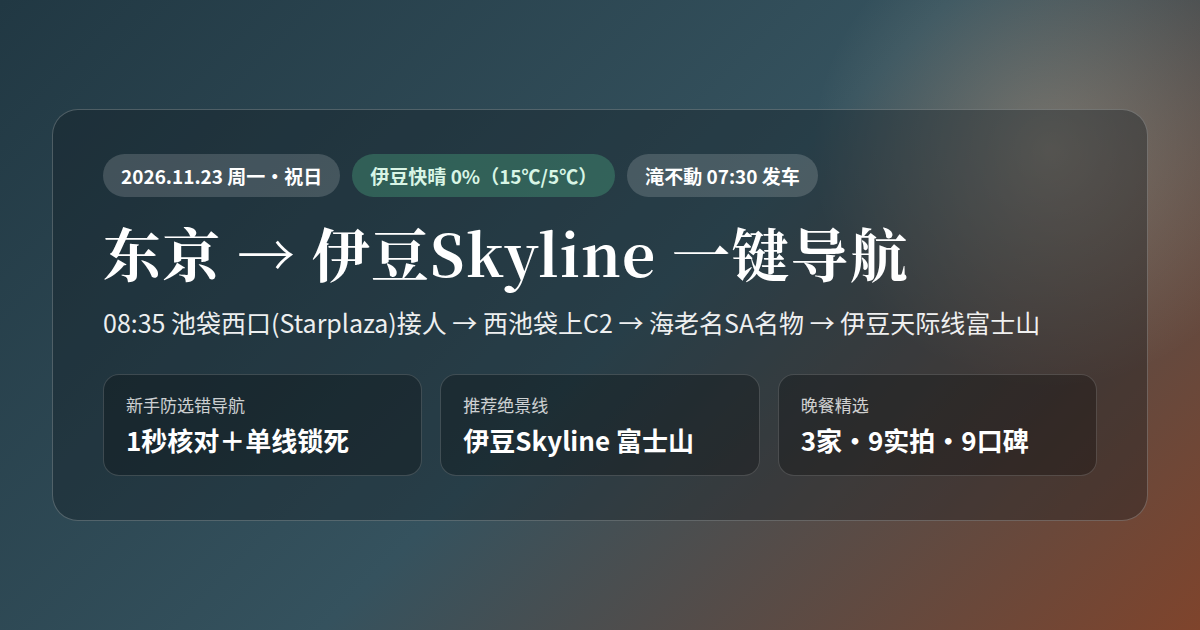
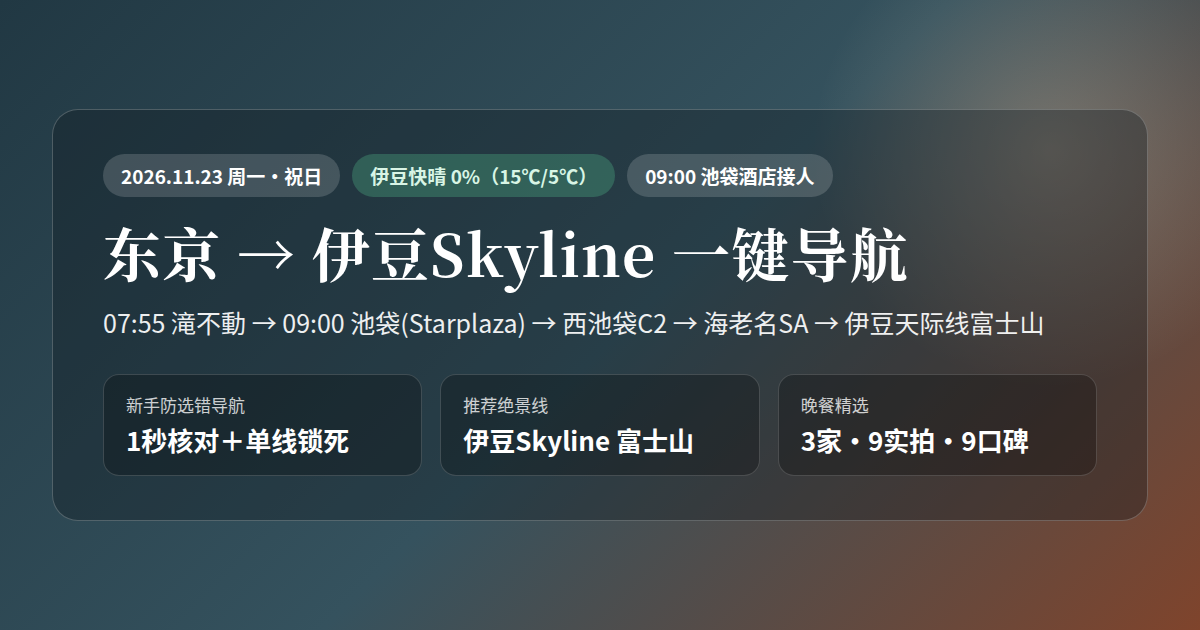
Redesign full 11/23 schedule around 09:00 Hotel Starplaza Ikebukuro pickup

Changed region(s): [[0.0925, 0.4825, 0.8942, 0.5429], [0.5242, 0.2413, 0.7092, 0.3016]]

diff --git a/index.html b/index.html
@@ -6,12 +6,12 @@
 <meta name="robots" content="noindex, nofollow">
 <meta name="theme-color" content="#f5f0e7" media="(prefers-color-scheme: light)">
 <meta name="theme-color" content="#161513" media="(prefers-color-scheme: dark)">
-<title>11/23 伊豆自驾一键导航＆绝景攻略｜07:30出发・池袋接人・伊豆Skyline</title>
-<meta name="description" content="2026年11月23日千叶滝不動07:30出发→Hotel Starplaza Ikebukuro(池袋西口)接人→西池袋上C2→海老名SA名物→伊豆Skyline看富士山→修善寺＆弘法の湯。含新手防选错一键Google Maps导航、3家晚餐9实拍＆真实口碑。">
+<title>11/23 伊豆自驾一键导航＆绝景攻略｜09:00池袋接人・伊豆Skyline</title>
+<meta name="description" content="2026年11月23日07:55千叶滝不動出发→09:00 Hotel Starplaza Ikebukuro(池袋西口)接人→西池袋上C2→海老名SA名物→伊豆Skyline看富士山→修善寺＆弘法の湯。含新手防选错一键Google Maps导航、3家晚餐9实拍＆真实口碑。">
 <meta property="og:type" content="website">
 <meta property="og:url" content="https://kenandxx.github.io/trip-planning/">
-<meta property="og:title" content="11/23 伊豆自驾一键导航｜池袋西口接人・伊豆Skyline富士山＆晚餐3选1">
-<meta property="og:description" content="已锁定 Hotel Starplaza Ikebukuro（池袋西口）08:35 接人！含新手防选错一键导航、西池袋/零隧道双入口、海老名SA名物、伊豆Skyline富士山＆3家晚餐9实拍。">
+<meta property="og:title" content="11/23 伊豆自驾一键导航｜09:00池袋西口接人・伊豆Skyline富士山＆晚餐3选1">
+<meta property="og:description" content="已按 09:00 抵达 Hotel Starplaza Ikebukuro（池袋西口）全新规划！含新手防选错一键导航、西池袋/零隧道双入口、海老名SA名物、伊豆Skyline富士山＆3家晚餐9实拍。">
 <meta property="og:image" content="https://kenandxx.github.io/trip-planning/og-cover.png">
 <style>
 :root{
@@ -250,10 +250,10 @@ footer{text-align:center;font-size:12px;color:var(--soft);padding:16px 0 36px;bo
     <div class="kicker">
       <span>2026.11.23 周一・勤劳感谢之日</span>
       <span class="ok">伊豆快晴 0%（富士山绝佳）</span>
-      <span>滝不動 07:30 最早发车</span>
+      <span>09:00 池袋酒店接人</span>
     </div>
     <h1>东京 → 伊豆Skyline → 伊豆长冈 自驾总览</h1>
-    <p class="sub">千叶滝不動 07:30 发车 → 08:35 池袋西口（Hotel Starplaza）接2位朋友 → 西池袋上C2 → 海老名SA名物 → 伊豆スカイライン富士山 → 修善寺＆弘法の湯</p>
+    <p class="sub">千叶滝不動 07:55 发车（留余量可07:45）→ 09:00 池袋西口（Hotel Starplaza）接2位朋友 → 西池袋上C2 → 海老名SA名物 → 伊豆スカイライン富士山 → 修善寺＆弘法の湯</p>
     <div class="hero-stats">
       <div class="hstat"><div class="l">天气 / 气温</div><div class="v">晴 15°/5°</div></div>
       <div class="hstat"><div class="l">日落 / 庭园闭园</div><div class="v">16:36 天黑</div></div>
@@ -314,10 +314,10 @@ footer{text-align:center;font-size:12px;color:var(--soft);padding:16px 0 36px;bo
     <div class="nav-card">
       <div class="nav-top">
         <span class="nav-step">第 1 段</span>
-        <div class="nav-title" id="leg1-title">07:30 滝不動 → Hotel Starplaza Ikebukuro（池袋西口）</div>
+        <div class="nav-title" id="leg1-title">07:55 滝不動 → 09:00 Hotel Starplaza Ikebukuro（池袋西口）</div>
         <span class="tag ok">约 65 分</span>
       </div>
-      <div class="nav-meta"><b>東京都豊島区池袋2-10-2</b>（池袋西口C6出口步行1分）。酒店仅3个预约车位，提前10分叫朋友下楼到旁侧宽路「劇場通り」3分钟快装；若装车/等人超5分，直接点右侧停337m外<b>「東京芸術劇場駐車場」</b>（100台平面・07:00起・310円/30分・限高2.1m）。</div>
+      <div class="nav-meta"><b>東京都豊島区池袋2-10-2</b>（池袋西口C6出口步行1分，建议 <b>07:45–07:55</b> 滝不動发车稳保 <b>09:00</b> 抵达）。酒店仅3个预约车位，提前10分（<b>08:50</b>）叫朋友下楼到旁侧宽路「劇場通り」3分钟快装；若装车/等人超5分，直接点右侧停337m外<b>「東京芸術劇場駐車場」</b>（100台平面・07:00起・310円/30分・限高2.1m）。</div>
       <div class="route-check"><b>✅ 1秒选线核对：</b>认准蓝线走 <b>「外環道 → C2中央環状線（西池袋出口）」</b>（避开C1最省心）或 <b>「京葉道路 → 7号小松川線 → 5号池袋線」</b>（均在彩虹大桥以北，完全不受11号台场线封路影响！）｜ <span class="no">❌ 绝不选含「湾岸線 / 11号台場線」的线</span>。</div>
       <div class="nav-actions">
         <a id="leg1-go" class="gbtn" target="_blank" rel="noopener" href="https://www.google.com/maps/dir/?api=1&destination=%E3%83%9B%E3%83%86%E3%83%AB%E3%82%B9%E3%82%BF%E3%83%BC%E3%83%97%E3%83%A9%E3%82%B6%E6%B1%A0%E8%A2%8B+%E6%9D%B1%E4%BA%AC%E9%83%BD%E8%B1%8A%E5%B3%B6%E5%8C%BA%E6%B1%A0%E8%A2%8B2-10-2&travelmode=driving&dir_action=navigate">🧭 一键导至 Hotel Starplaza 池袋</a>
@@ -329,7 +329,7 @@ footer{text-align:center;font-size:12px;color:var(--soft);padding:16px 0 36px;bo
     <div class="nav-card highlight">
       <div class="nav-top">
         <span class="nav-step blue">第 2A 段・池袋上高速神技</span>
-        <div class="nav-title">08:45 酒店接2人 → 西池袋入口（首都高C2内回り・ETC专用）</div>
+        <div class="nav-title">09:10 酒店接2人出发 → 西池袋入口（首都高C2内回り・ETC专用）</div>
         <span class="tag ok">约 6–8 分上高速</span>
       </div>
       <div class="nav-meta"><b>实操防坑：</b>切勿把地下隧道入口单独设成导航终点（进山手隧道 8.4km 无信号无法切导航，且坐标易贴到地面大和田桥错过入口）！在酒店停稳时<b>直接点下方主按钮导至下一站 SA</b>，系统会自动无缝引导经<b>要町通り→山手通り南行中央隔离带</b>钻入单向<b>「西池袋入口（C2内回り・ETC专用）」</b>（2026/11/23 已核实无施工封闭・<a href="https://www.shutoko.jp/driving/route/entrance-exit/nishiikebukuro/" target="_blank" rel="noopener" style="color:var(--nav);text-decoration:underline">首都高官方入口图↗</a>）。</div>
@@ -423,11 +423,11 @@ footer{text-align:center;font-size:12px;color:var(--soft);padding:16px 0 36px;bo
 
       <div class="nav-card">
         <div class="nav-top">
-          <span class="nav-step">第 3 段・慎选</span>
-          <div class="nav-title">足柄SA → 沼津港（07:30出发易撞12点峰值，建议跳过）</div>
-          <span class="tag err">11:15 硬止损</span>
+          <span class="nav-step">第 3 段・建议跳过</span>
+          <div class="nav-title">足柄SA → 沼津港（09:00接人到港已11:39正撞最高峰，强烈建议跳过）</div>
+          <span class="tag err">必撞午市峰值</span>
         </div>
-        <div class="nav-meta">11/23叠加沼津秋祭，若足柄出发已过<b>10:40</b>，请直接跳过本段点下方第4段直奔修善寺！</div>
+        <div class="nav-meta">11/23叠加沼津秋祭，09:00酒店出发到足柄SA已约<b>10:44</b>，再绕沼津港会正撞11:30–13:30最猛排队潮（约2h），建议直接点下方第4段直奔修善寺！</div>
         <div class="route-check"><b>✅ 1秒选线核对：</b>认准 <b>「新東名 → 長泉沼津IC → 伊豆縦貫道」</b>（全高速零山路）。</div>
         <div class="nav-actions">
           <a class="gbtn" target="_blank" rel="noopener" href="https://www.google.com/maps/dir/?api=1&destination=%E6%B2%BC%E6%B4%A5%E3%81%BF%E3%81%AA%E3%81%A8%E6%96%B0%E9%AE%AE%E9%A4%A8+%E9%9D%99%E5%B2%A1%E7%9C%8C%E6%B2%BC%E6%B4%A5%E5%B8%82%E5%8D%83%E6%9C%AC%E6%B8%AF%E7%94%BA128-1&travelmode=driving&dir_action=navigate">🧭 一键导至 沼津港</a>
@@ -439,11 +439,11 @@ footer{text-align:center;font-size:12px;color:var(--soft);padding:16px 0 36px;bo
     <!-- LEG 4 (SHARED SHUZENJI) -->
     <div class="nav-card">
       <div class="nav-top">
-        <span class="nav-step">第 4 段</span>
-        <div class="nav-title">宽道下山先逛修善寺 → 「月の庭駐車場」（新手宽敞好停）</div>
+        <span class="nav-step">第 4 段・一次停好</span>
+        <div class="nav-title">宽道下山直停修善寺 → 「月の庭駐車場」（吃午饭＋逛街零挪车）</div>
         <span class="tag ok">50车位・专人引导</span>
       </div>
-      <div class="nav-meta">全天500日元、平地宽道有管理员指挥停放。<b>绝不直接导「修禅寺」本堂</b>（避免钻进窄巷）！</div>
+      <div class="nav-meta">全天500日元、平地宽道有管理员指挥停放。<b>约13:13一次停好</b>，步行在温泉街吃手打荞麦面/山葵丼，吃完<b>14:08</b>直接逛修善寺免去二次找车位！<b>绝不直接导「修禅寺」本堂</b>（避免钻窄巷）。</div>
       <div class="route-check"><b>✅ 1秒选线核对：</b>从龟石峠出发认准往 <b>「大仁 / 伊豆の国 / 県道19号」</b> 宽敞双车道下山（路线B认准<b>「伊豆縦貫道 → 修善寺道路」</b>）｜ <span class="no">❌ 绝不往「伊東 / 宇佐美」方向！</span>下长坡挂 <b>低档/B档</b> 发动机制动控速。</div>
       <div class="nav-tip"><b>现金提醒：</b>经伊豆中央道（200円）或修善寺道路（200円）普通ETC刷不了，副驾备好硬币走<b>「一般」通道</b>！先去 16:00 闭园的修禅寺庭园。</div>
       <div class="nav-actions">
@@ -554,7 +554,7 @@ footer{text-align:center;font-size:12px;color:var(--soft);padding:16px 0 36px;bo
         <ul>
           <li><b>锁死晴天富士山</b>：11/23 伊豆预报<b>全天快晴 0% 降水</b>，而 <b>11/24 午后开始转雨</b>！把富士山绝景提前放到 11/23 路上看，完全不赌次日天气！</li>
           <li><b>反而躲开东名施工</b>：在<b>厚木IC</b>切入「小田原厚木道路 → 箱根新道 → 熱海峠IC」，<b>完美绕开东名下行「大井松田〜足柄」右线封闭施工</b>，且 11/23 小田厚下行无 NEXCO 拥堵预测！</li>
-          <li><b>07:30 出发时间极充裕</b>：放弃沼津港排队 2 小时，换成海老名SA(30分)＋伊豆Skyline(50分)，仍能在 <b>13:50 左右到修善寺</b>（距 16:36 日落还有 2 小时 46 分钟！）。</li>
+          <li><b>09:00 接人依然从容不赶</b>：跳过沼津港排队 2 小时，换成海老名SA(30分)＋伊豆Skyline(50分)，<b>13:13 一次停好修善寺月の庭駐車場</b>吃午饭、<b>14:08 开逛修善寺</b>（距 16:00 庭园闭园还有近 2 小时，距 16:36 日落还有 2 小时 28 分钟！）。</li>
         </ul>
       </div>
 
@@ -814,34 +814,34 @@ footer{text-align:center;font-size:12px;color:var(--soft);padding:16px 0 36px;bo
     </article>
   </section>
 
-  <!-- 4. SCHEDULE SIMULATOR (07:30 EARLIEST PRECONDITION) -->
+  <!-- 4. SCHEDULE SIMULATOR (09:00 HOTEL ARRIVAL ANCHOR) -->
   <section id="sim">
     <div class="sec-head">
-      <div><div class="sec-k">TIMELINE · EARLIEST 07:30</div><h2>新前提（滝不動最早 07:30）行程时间轴模拟</h2></div>
+      <div><div class="sec-k">TIMELINE · 09:00 HOTEL PICKUP</div><h2>按 09:00 抵达池袋酒店｜行程时间轴模拟</h2></div>
       <span id="verdict-pill" class="tag ok">余裕充足 ◎</span>
     </div>
 
     <div class="presets">
       <button class="pbtn on" data-preset="planS" type="button">
         <div class="top"><span class="name">方案 S：伊豆Skyline绝景</span><span class="tag ok">最推荐 ◎</span></div>
-        <div class="desc">07:30 滝不動 → 08:35 池袋西口接人 → 海老名SA名物 → 伊豆天际线富士山 → 13:51 修善寺</div>
+        <div class="desc">07:55 滝不動 → 09:00 池袋西口接人 → 海老名SA名物 → 伊豆天际线富士山 → 13:13 修善寺午饭 → 14:08 开逛</div>
       </button>
       <button class="pbtn" data-preset="planC" type="button">
         <div class="top"><span class="name">方案 C：新东名零山路</span><span class="tag ok">最省心 ◎</span></div>
-        <div class="desc">07:30 滝不動 → 08:35 池袋西口接人 → 足柄SA名物＆富士山 → 新东名直奔伊豆 → 12:42 修善寺</div>
+        <div class="desc">07:55 滝不動 → 09:00 池袋西口接人 → 足柄SA名物＆富士山 → 新东名直奔伊豆 → 13:09 修善寺 → 15:00 入住</div>
       </button>
       <button class="pbtn" data-preset="planA" type="button">
         <div class="top"><span class="name">方案 A：硬塞沼津港对照</span><span class="tag err">偏紧 ✕</span></div>
-        <div class="desc">07:30 滝不動 → 足柄SA → 11:12 沼津港撞祝日祭典峰值排2h → 15:00入住后再去修善寺天已黑</div>
+        <div class="desc">07:55 滝不動 → 09:00 接人 → 足柄SA → 11:39 沼津港撞祝日祭典峰值排2h → 15:00入住后再去修善寺天已黑</div>
       </button>
     </div>
 
     <div class="card">
       <div class="ctrl">
         <div>
-          <div class="ctrl-row"><span>千叶滝不動发车（最早07:30）</span><b id="dep-out" class="mono">07:30</b></div>
-          <input id="dep-slider" type="range" min="450" max="540" step="15" value="450">
-          <div class="ctrl-row" style="font-size:11px;color:var(--soft)"><span>07:30</span><span>池袋酒店约 <b id="sjk-hint">08:35</b> 接人</span><span>09:00</span></div>
+          <div class="ctrl-row"><span>抵达池袋酒店时间（已按09:00设计）</span><b id="dep-out" class="mono">09:00</b></div>
+          <input id="dep-slider" type="range" min="515" max="600" step="5" value="540">
+          <div class="ctrl-row" style="font-size:11px;color:var(--soft)"><span>08:35</span><span>滝不動建议 <b id="sjk-hint">07:55</b> 发车</span><span>10:00</span></div>
         </div>
         <div>
           <select id="route-mode">
@@ -861,7 +861,7 @@ footer{text-align:center;font-size:12px;color:var(--soft);padding:16px 0 36px;bo
       </div>
 
       <div class="kpis">
-        <div class="kpi"><div class="kl">池袋酒店接人</div><div id="k-sjk" class="kv">--:--</div><div class="ks">Starplaza・西池袋上C2</div></div>
+        <div class="kpi"><div class="kl">池袋酒店接人</div><div id="k-sjk" class="kv">--:--</div><div id="k-dep-s" class="ks">07:55 滝不動发车</div></div>
         <div class="kpi"><div class="kl">东名绫濑瓶颈</div><div id="k-tomei" class="kv">--</div><div id="k-tomei-s" class="ks">--</div></div>
         <div class="kpi"><div class="kl">修善寺日落前</div><div id="k-light" class="kv">--</div><div id="k-garden" class="ks">--</div></div>
         <div class="kpi"><div class="kl">累计驾驶 / 路线亮点</div><div id="k-drv" class="kv">--</div><div id="k-num" class="ks">--</div></div>
@@ -905,7 +905,7 @@ footer{text-align:center;font-size:12px;color:var(--soft);padding:16px 0 36px;bo
       <div class="cchart" id="c-chart"></div>
       <div class="caxis" id="c-axis"></div>
       <p style="margin:8px 0 0;font-size:12.5px;color:var(--soft)">
-        ✅ <b>改池袋后的双重大利好</b>：首都高官方评定 11/23 全天<b>「拥堵较少」</b>；07:30 出发 08:35 抵池袋，从仅 5 分钟外的<b>西池袋入口</b>直入 C2→东名，约 <b>09:30 就过绫濑</b>（仅微堵约 +11分钟，比原新宿方案更早更顺！）；且 <b>小田原厚木道路下行</b> 无拥堵预测，30km 返程大堵车全在对向上行！
+        ✅ <b>09:00 接人依然很稳</b>：首都高官方评定 11/23 全天<b>「拥堵较少」</b>；07:55 发车 <b>09:00 抵池袋</b>，全员多睡 25 分钟！09:10 装完车经 6 分钟外的<b>西池袋入口</b>直入 C2→东名，约 <b>09:55 过绫濑</b>（仅微堵约 +13 分钟，仅比早半小时多 2 分钟！）；且 <b>小田原厚木道路下行</b> 无拥堵预测，30km 返程大堵车全在对向上行！
       </p>
     </div>
 
@@ -949,19 +949,19 @@ const RISKS = [
   {lvl:'err',tag:'高风险',cat:'首都高ETC＆封路',t:'西池袋/池尻均为紫色ETC专用入口（现金不可进）＋ 11号彩虹大桥 04–14时封路',p:'发车前确认ETC卡插紧；滝不動→池袋全程在彩虹大桥以北（外环道→C2或京叶道→7号线→5号线），绝不走湾岸线！'},
   {lvl:'err',tag:'高风险',cat:'现金收费站',t:'伊豆Skyline(500円) / 伊豆中央道(200円) / 修善寺道路(200円) 普通ETC不可用！',p:'中控台备足 2,500–3,000 日元（500円/100円硬币＋千円纸币），副驾专职递钱走「一般/现金」通道（若提前注册过ETCX可用）。'},
   {lvl:'warn',tag:'中风险',cat:'山路下坡＆让车',t:'伊豆Skyline 龟石峠下山（県道19号大仁侧）长下坡＋本地快车',p:'大仁侧为宽敞双车道，下坡挂低档/B档用发动机制动控速 40–50km/h，勿长踩脚刹；遇后方快车在避让带靠边让行。大雾随时在厚木IC改走路线B（零山路）！'},
-  {lvl:'warn',tag:'中风险',cat:'池袋装车＆晚餐',t:'Hotel Starplaza 仅3个预约车位、装车超5分易违停 ＋ 祝日晚上无预约没位',p:'到店前10分钟叫朋友下楼到「劇場通り」大路边3分钟快装；若等超5分钟直接拐进337m外「東京芸術劇場駐車場」（100台平面・310円/30分）；晚餐ひょうたん寿司/あまご茶屋今晚电话订位，さわやか明天手机取号！'},
-  {lvl:'warn',tag:'中风险',cat:'修善寺窄巷＆日落',t:'直接导修禅寺易钻窄巷 ＋ 16:36天黑・11/24午后转雨',p:'第4段已锁定平地宽敞＋管理员引导的「月の庭駐車場」；11/23快晴走Skyline先锁死富士山绝景，再赶16:00前逛完修禅寺庭园！'}
+  {lvl:'warn',tag:'中风险',cat:'池袋装车＆晚餐',t:'Hotel Starplaza 仅3个预约车位、装车超5分易违停 ＋ 祝日晚上无预约没位',p:'08:50 提前10分钟叫朋友下楼到「劇場通り」大路边3分钟快装；若等超5分钟直接拐进337m外「東京芸術劇場駐車場」（100台平面・310円/30分）；晚餐ひょうたん寿司/あまご茶屋今晚电话订位，さわやか明天手机取号！'},
+  {lvl:'warn',tag:'中风险',cat:'修善寺窄巷＆日落',t:'直接导修禅寺易钻窄巷 ＋ 16:36天黑・11/24午后转雨',p:'第4段已锁定平地宽敞＋管理员引导的「月の庭駐車場」（13:13 一次停好吃午饭＋逛街零挪车）；11/23快晴走Skyline先锁死富士山绝景，再赶16:00前逛完修禅寺庭园！'}
 ];
 
 const TODOS = [
-  {id:'t1',who:'全员',tx:'确认集合点＆路线：08:35 Hotel Starplaza Ikebukuro（池袋2-10-2・C6口）→ 选【方案S 海老名SA＋伊豆Skyline富士山】还是【方案C 足柄SA＋零山路】'},
+  {id:'t1',who:'全员',tx:'确认集合点＆路线：09:00 Hotel Starplaza Ikebukuro（池袋2-10-2・C6口）→ 选【方案S 海老名SA＋伊豆Skyline富士山】还是【方案C 足柄SA＋零山路】'},
   {id:'t2',who:'全员',tx:'拍板晚餐 3 选 1：① ひょうたん寿司(055-948-0733今晚订位) / ② さわやか函南店(明天手机取号) / ③ あまご茶屋(0558-73-2388)'},
-  {id:'t3',who:'友人',tx:'把2位朋友的雪杖长度＆箱子尺寸发群里；明早 08:25 提前退房下楼到酒店外「劇場通り」大路边等车！'},
+  {id:'t3',who:'友人',tx:'把2位朋友的雪杖长度＆箱子尺寸发群里；明早 08:50 提前退房下楼到酒店外「劇場通り」大路边等车！'},
   {id:'t4',who:'司机',tx:'备好 2,500–3,000 日元现金（含500円/100円硬币）：用于伊豆Skyline 500円＋伊豆中央道200円＋修善寺道路200円（及可选ターンパイク900円）'},
   {id:'t5',who:'司机',tx:'确认 ETC 卡插紧（西池袋/池尻入口均为紫色ETC专用）、装手机支架、加满油、清空后备箱；副驾建议免费装「Yahoo!カーナビ」辅助看首都高3D分叉'},
-  {id:'t6',who:'明早',tx:'07:30 滝不動发车前扫一眼第1段蓝线：走外环→C2或京叶道→7号线→5号线（绝不走湾岸线/彩虹大桥）'},
-  {id:'t7',who:'配合',tx:'进西池袋上C2山手隧道后牢记大橋JCT口诀：过富ヶ谷靠右进螺旋 → 死守左侧「🔵蓝色车道」去东名！（极度怕隧道可切池尻入口）'},
-  {id:'t8',who:'休整',tx:'在 EXPASA海老名（下り）买哈密瓜面包＆炸竹荚鱼垫肚子（记住スカイポート亀石餐厅已结业，仅留洗手间）'}
+  {id:'t6',who:'明早',tx:'07:45–07:55 滝不動发车（稳保 09:00 到酒店），出发前扫一眼第1段蓝线：走外环→C2或京叶道→7号线→5号线（绝不走湾岸线/彩虹大桥）'},
+  {id:'t7',who:'配合',tx:'09:10 酒店出发直接点第2A段主按钮直导海老名SA！进西池袋山手隧道牢记大橋JCT口诀：过富ヶ谷靠右进螺旋 → 死守左侧「🔵蓝色车道」去东名！（怕隧道可切地面导池尻）'},
+  {id:'t8',who:'休整',tx:'10:18 在 EXPASA海老名（下り）买哈密瓜面包＆炸竹荚鱼垫肚子（记住スカイポート亀石餐厅已结业，仅留洗手间）'}
 ];
 
 const fmt = m => `${String(Math.floor(m/60)).padStart(2,'0')}:${String(Math.round(m%60)).padStart(2,'0')}`;
@@ -983,11 +983,11 @@ function updateHotelNav(){
   if(val){
     go.href = `https://www.google.com/maps/dir/?api=1&destination=${originEnc}&travelmode=driving&dir_action=navigate`;
     go.textContent = `🧭 一键导至 ${val}`;
-    title.textContent = `07:30 滝不動 → ${val}`;
+    title.textContent = `07:55 滝不動 → 09:00 ${val}`;
   } else {
     go.href = `https://www.google.com/maps/dir/?api=1&destination=${DEFAULT_HOTEL_ENC}&travelmode=driving&dir_action=navigate`;
     go.textContent = '🧭 一键导至 Hotel Starplaza 池袋';
-    title.textContent = '07:30 滝不動 → Hotel Starplaza Ikebukuro（池袋西口）';
+    title.textContent = '07:55 滝不動 → 09:00 Hotel Starplaza Ikebukuro（池袋西口）';
   }
   const sa = SA_DEST[curNavMode];
   const leg2aGo = document.getElementById('leg2a-go');
@@ -1023,21 +1023,21 @@ function ayaseDelay(passMin, mode){
 }
 
 function runSim(){
-  const dep = +document.getElementById('dep-slider').value;
+  const sjk = +document.getElementById('dep-slider').value; // Hotel arrival time (default 540 = 09:00)
+  const dep = sjk - 65; // Back-calculated Takifudo departure (default 475 = 07:55)
   const rmode = document.getElementById('route-mode').value;
   const tmode = document.getElementById('traffic-mode').value;
   const szFirst = document.getElementById('opt-first').checked;
-  document.getElementById('dep-out').textContent = fmt(dep);
+  document.getElementById('dep-out').textContent = fmt(sjk);
+  document.getElementById('sjk-hint').textContent = fmt(dep);
 
   const list = [];
   let t = dep, drv = 0, km = 0;
 
-  list.push({s:t,d:65,tp:'d',lb:'滝不動→池袋',ti:'第1段：滝不動駅 → Hotel Starplaza Ikebukuro（池袋西口，约40km）',nt:'走外环道→C2（西池袋出口）或京叶道→7号线→5号线，全程在彩虹大桥以北，完全不受11号台场线封路影响！'});
+  list.push({s:t,d:65,tp:'d',lb:'滝不動→池袋',ti:'第1段：滝不動駅 → Hotel Starplaza Ikebukuro（池袋西口，约40km）',nt:'建议留5–10分余量发车；走外环道→C2（西池袋出口）或京叶道→7号线→5号线，全程在彩虹大桥以北，完全不受11号台场线封路影响！'});
   t+=65; drv+=65; km+=40;
-  const sjk = t;
-  document.getElementById('sjk-hint').textContent = fmt(sjk);
 
-  list.push({s:t,d:17,tp:'r',lb:'池袋接人→西池袋',ti:'第2A段：Hotel Starplaza 接2人＆装车 → 西池袋入口（C2内回り・ETC专用）',nt:'提前10分叫朋友到劇場通り快装（超5分停337m外东京艺术剧场）；单向西池袋入口距酒店仅6分钟！'});
+  list.push({s:t,d:17,tp:'r',lb:'池袋接人→西池袋',ti:'第2A段：Hotel Starplaza 接2人＆装车（10分）→ 西池袋入口（C2内回り・ETC专用）',nt:'提前10分叫朋友到劇場通り快装（超5分停337m外东京艺术剧场）；酒店停稳后直接点第2A段主按钮导下一站SA，约6分钟无缝进西池袋入口！'});
   t+=17; drv+=7; km+=2;
 
   const ayaseEst = t+38;
@@ -1046,23 +1046,31 @@ function runSim(){
 
   if(rmode === 'skyline'){
     const toEbina = 48 + delay;
-    list.push({s:t,d:toEbina,tp:'d',lb:delay>=10?`C2→东名(+${delay}分)`:'C2→海老名',ti:'第2B段：西池袋C2山手隧道 → 大橋JCT(🔵蓝道) → 3号涩谷线 → EXPASA海老名（下り，约48km）',nt:`约${fmt(ayaseEst)}过绫濑瓶颈（+${delay}分）。比原新宿绕地面快15分钟！海老名SA在厚木IC前一站零绕路。`});
+    list.push({s:t,d:toEbina,tp:'d',lb:delay>=10?`C2→东名(+${delay}分)`:'C2→海老名',ti:'第2B段：西池袋C2山手隧道 → 大橋JCT(🔵蓝道) → 3号涩谷线 → EXPASA海老名（下り，约48km）',nt:`约${fmt(ayaseEst)}过绫濑瓶颈（+${delay}分）。海老名SA位于厚木IC前一站，零绕路！`});
     t+=toEbina; drv+=toEbina; km+=48;
 
-    list.push({s:t,d:30,tp:'r',lb:'海老名SA名物',ti:'EXPASA海老名（下り）休整＋名物补给',nt:'必吃：ぽるとがる 哈密瓜面包 ＋ 小田原吉匠 炸竹荚鱼 ＋ えびえび焼き（528小车位）。'});
+    list.push({s:t,d:30,tp:'r',lb:'海老名SA名物',ti:'EXPASA海老名（下り）上午茶休整＋名物补给',nt:'必吃：ぽるとがる 哈密瓜面包 ＋ 小田原吉匠 炸竹荚鱼 ＋ えびえび焼き（528小车位）。'});
     t+=30;
 
     list.push({s:t,d:65,tp:'d',lb:'小田厚→熱海峠',ti:'第3A段：厚木IC → 小田原厚木道路 → 箱根新道（免费上坡）→ 道の駅箱根峠 → 熱海峠IC（约53km）',nt:'完美绕开东名大井松田右线施工！11/23小田厚下行无拥堵预测；也可升级走ターンパイク大观山(900円)。'});
     t+=65; drv+=65; km+=53;
 
-    list.push({s:t,d:50,tp:'s',lb:'伊豆Skyline富士山',ti:'第3B/3C段：伊豆スカイライン（熱海峠→滝知山→亀石峠 16.5km，含25分富士山拍照）',nt:'现金/ETCX 500日元！停「滝知山展望台（45车位）」＆「池の向展望台」拍晴天富士山＋相模/骏河双海！'});
+    list.push({s:t,d:50,tp:'s',lb:'伊豆Skyline富士山',ti:'第3B/3C段：伊豆スカイライン（熱海峠→滝知山→亀石峠 16.5km，含25分富士山拍照）',nt:'现金/ETCX 500日元！停「滝知山展望台（45车位）」＆「池の向展望台」拍正午晴天富士山＋相模/骏河双海！'});
     t+=50; drv+=25; km+=17;
 
-    list.push({s:t,d:30,tp:'d',lb:'亀石峠下山',ti:'亀石峠IC 宽道下山 → 県道19号（大仁侧）→ 伊豆长冈/修善寺（约18km）',nt:'双向双车道好开！下长坡挂低档/B档发动机制动控速 40–50km/h。'});
-    t+=30; drv+=30; km+=18;
+    if(szFirst){
+      list.push({s:t,d:30,tp:'d',lb:'亀石峠→月の庭',ti:'第4段：亀石峠IC 宽道下山（県道19号大仁侧）→ 直停修善寺「月の庭駐車場」（约19km）',nt:'双向双车道好开（下坡挂低档/B档控速），50车位500日元/全天一次停好，吃午饭＋逛街免挪车！修善寺道路现金200円。'});
+      t+=30; drv+=30; km+=19;
 
-    list.push({s:t,d:55,tp:'f',lb:'伊豆午饭',ti:'修善寺 / 伊豆长冈周边轻松午饭',nt:'避开沼津港大队，轻松吃完准备逛修善寺。'});
-    t+=55;
+      list.push({s:t,d:55,tp:'f',lb:'修善寺午饭',ti:'修善寺温泉街轻松午饭（手打荞麦面 / 山葵丼等）',nt:'停好车步行即吃，避开沼津港大队，省下二次找车位时间！'});
+      t+=55;
+    } else {
+      list.push({s:t,d:28,tp:'d',lb:'亀石峠下山',ti:'亀石峠IC 宽道下山 → 県道19号（大仁侧）→ 伊豆长冈区域（约17km）',nt:'双向双车道好开！下长坡挂低档/B档发动机制动控速 40–50km/h。'});
+      t+=28; drv+=28; km+=17;
+
+      list.push({s:t,d:55,tp:'f',lb:'伊豆午饭',ti:'伊豆长冈周边轻松午饭',nt:'避开沼津港大队，准备等15:00入住。'});
+      t+=55;
+    }
     highlightTxt = '锁死晴天富士山◎';
   } else if(rmode === 'direct'){
     const hw = 74 + delay;
@@ -1082,35 +1090,36 @@ function runSim(){
     const hw = 74 + delay;
     list.push({s:t,d:hw,tp:'d',lb:delay>=10?`C2→东名(+${delay}分)`:'C2→东名下行',ti:'第2B段：西池袋C2 → 东名下行 → EXPASA足柄（下り，约93km）',nt:`约${fmt(ayaseEst)}过绫濑（+${delay}分），大井松田右线封闭请靠左。`});
     t+=hw; drv+=hw; km+=93;
-    list.push({s:t,d:20,tp:'r',lb:'足柄SA',ti:'EXPASA足柄（下り）短暂休整',nt:'若出发已过10:40建议直接跳过沼津港！'});
+    list.push({s:t,d:20,tp:'r',lb:'足柄SA',ti:'EXPASA足柄（下り）短暂休整',nt:'09:00接人到足柄SA已近10:45，强烈建议直接跳过沼津港！'});
     t+=20;
-    list.push({s:t,d:35,tp:'d',lb:'往沼津港',ti:'第3段：足柄SA → 沼津港（约34km）',nt:'11/23叠加沼津秋祭。'});
+    list.push({s:t,d:35,tp:'d',lb:'往沼津港',ti:'第3段：足柄SA → 沼津港（约34km）',nt:'11/23叠加沼津秋祭，11:30–13:30为最猛饭点峰值。'});
     t+=35; drv+=35; km+=34;
     let stay = t >= 660 ? 115 : 85;
     if(t >= 660){ numBad = true; highlightTxt = `${fmt(t)}到沼津(撞峰值2h)`; }
     else { highlightTxt = `${fmt(t)}到沼津(轻排队)`; }
-    list.push({s:t,d:stay,tp:'f',lb:'沼津港午饭',ti:'沼津港海鲜午饭（含停车＋等位）',nt:numBad?'❌ 07:30出发到沼津港已撞11点后祝日＋秋祭峰值，强烈建议改走方案S！':'需抓紧时间。'});
+    list.push({s:t,d:stay,tp:'f',lb:'沼津港午饭',ti:'沼津港海鲜午饭（含停车＋等位）',nt:numBad?'❌ 09:00接人到沼津港已正撞午市祝日＋秋祭峰值，强烈建议改走方案S！':'需抓紧时间。'});
     t+=stay;
     list.push({s:t,d:30,tp:'d',lb:'往伊豆',ti:'沼津港 → 伊豆长冈区域（约13km）',nt:'伊豆中央道现金200日元。'});
     t+=30; drv+=30; km+=13;
   }
 
   let szStart = 0;
-  if(szFirst && t < 900){
-    const driveSz = rmode === 'skyline' ? 10 : 15;
-    list.push({s:t,d:driveSz,tp:'d',lb:'往修善寺',ti:'第4段：前往修善寺「月の庭駐車場」（平地宽敞・专人引导）',nt:'修善寺道路现金200日元；50车位500日元/天，绝不钻窄巷！'});
-    t+=driveSz; drv+=driveSz; km+=9;
+  if(szFirst && t < 915){
+    if(rmode !== 'skyline'){
+      list.push({s:t,d:15,tp:'d',lb:'往修善寺',ti:'第4段：前往修善寺「月の庭駐車場」（平地宽敞・专人引导）',nt:'修善寺道路现金200日元；50车位500日元/天，绝不钻窄巷！'});
+      t+=15; drv+=15; km+=9;
+    }
     szStart = t;
-    list.push({s:t,d:80,tp:'s',lb:'修善寺散步',ti:'修善寺温泉街（独钴之汤・修禅寺庭园・竹林小径）',nt:szStart<=915?'✅ 充裕赶上16:00闭园的修禅寺庭园＆明亮光线！':'⚠ 优先进16:00闭园的修禅寺庭园。'});
+    list.push({s:t,d:80,tp:'s',lb:'修善寺散步',ti:'修善寺温泉街（修禅寺庭园・独钴之汤・竹林小径）',nt:szStart<=915?'✅ 充裕赶上16:00闭园的修禅寺庭园＆明亮光线！':'⚠ 优先进16:00闭园的修禅寺庭园。'});
     t+=80;
-    list.push({s:t,d:15,tp:'d',lb:'回旅馆',ti:'第5段：修善寺 → 弘法の湯 长冈店（约9km）',nt:'停好车即完成主要驾驶任务！（若选あまご茶屋可在17:00修善寺吃完再回）'});
+    list.push({s:t,d:15,tp:'d',lb:'回旅馆',ti:'第5段：修善寺 → 弘法の湯 长冈店（约9km）',nt:'停好车即完成全天主要驾驶！（若选あまご茶屋可在16:30–17:00修善寺吃完早晚餐再回）'});
     t+=15; drv+=15; km+=9;
     const ci = Math.max(t, 900);
-    list.push({s:ci,d:70,tp:'s',lb:'入住泡汤',ti:'弘法の湯 长冈店 入住・泡温泉＆岩盘浴',nt:'免费室外停车34台（1房限1车，15:00起入住）。'});
-    t = ci + 70;
+    list.push({s:ci,d:80,tp:'s',lb:'入住泡汤',ti:'弘法の湯 长冈店 入住・泡温泉＆岩盘浴',nt:ci>915?'完美错开15:00入住排队高峰！免费室外停车34台（1房限1车）。':'免费室外停车34台（1房限1车，15:00起入住）。'});
+    t = ci + 80;
   } else {
     const ci = Math.max(t, 900);
-    if(t < 900) list.push({s:t,d:900-t,tp:'r',lb:'等入住',ti:'旅馆周边小憩（等待15:00入住）',nt:'勾选「先逛修善寺」可赚回1小时白天观光。'});
+    if(t < 900) list.push({s:t,d:900-t,tp:'r',lb:'等入住',ti:'旅馆周边小憩（等待15:00入住）',nt:'勾选「先逛修善寺」可赚回1.5小时白天观光。'});
     list.push({s:ci,d:45,tp:'s',lb:'办入住',ti:'第5段：弘法の湯 长冈店 办理入住＆放行李',nt:'祝日15点前后车位略紧。'});
     t = ci + 45;
     list.push({s:t,d:15,tp:'d',lb:'往修善寺',ti:'第4段：旅馆 → 修善寺「月の庭駐車場」',nt:'修善寺道路现金200日元。'});
@@ -1122,11 +1131,12 @@ function runSim(){
     t+=15; drv+=15; km+=9;
   }
 
-  const din = Math.max(t, 1065);
-  list.push({s:din,d:80,tp:'f',lb:'晚餐3选1',ti:'第6段：晚餐 3 选 1（ひょうたん寿司 / さわやか函南店 / あまご茶屋）',nt:'寿司店步行9分(LO 19:30)；さわやか车程12分(LO 21:00，手机提前取号)；あまご茶屋修善寺17:00早晚餐(LO 18:30)。'});
+  const din = Math.max(t, 1050);
+  list.push({s:din,d:80,tp:'f',lb:'晚餐3选1',ti:'第6段：晚餐 3 选 1（ひょうたん寿司 / さわやか函南店 / あまご茶屋）',nt:'寿司店步行9分(LO 19:30)；さわやか车程12分(LO 21:00，泡汤时手机取号)；あまご茶屋修善寺17:00早晚餐(LO 18:30)。'});
 
   const light = Math.max(0, 996 - szStart);
   document.getElementById('k-sjk').textContent = fmt(sjk);
+  document.getElementById('k-dep-s').textContent = `${fmt(dep)} 滝不動发车・西池袋上C2`;
   const kt = document.getElementById('k-tomei');
   kt.textContent = delay===0?'0 拥堵':`+${delay} 分`;
   kt.style.color = delay===0?'var(--ok)':(delay<=18?'var(--warn)':'var(--err)');
@@ -1145,9 +1155,9 @@ function runSim(){
   else if(light>=25 && !numBad){vp.className='tag warn';vp.textContent='略偏紧 △';}
   else{vp.className='tag err';vp.textContent='偏紧・建议改方案S ✕';}
 
-  const minS=420, span=810, pct=m=>Math.max(0,Math.min(100,(m-minS)/span*100));
+  const minS=420, span=840, pct=m=>Math.max(0,Math.min(100,(m-minS)/span*100));
   const ga=document.getElementById('g-axis'); ga.innerHTML='';
-  [420,540,660,780,900,1020,1140].forEach(m=>{
+  [480,600,720,840,960,1080,1200].forEach(m=>{
     const s=document.createElement('span');
     s.style.cssText=`position:absolute;left:${pct(m)}%;transform:translateX(-50%)`;
     s.textContent=fmt(m); ga.appendChild(s);
@@ -1175,13 +1185,13 @@ function drawChart(){
   const c=document.getElementById('c-chart'), a=document.getElementById('c-axis');
   CONGESTION.forEach((x,i)=>{
     const col=document.createElement('div');
-    col.className='ccol'+(i===2?' best':'');
+    col.className='ccol'+((i===2||i===3)?' best':'');
     const dh=Math.max(x.d?12:3,Math.round(x.d/30*100));
     const uh=Math.max(x.u?12:3,Math.round(x.u/30*100));
     col.innerHTML=`<div class="cbar" style="height:${dh}%;background:${x.d?'#2b6cb0':'var(--line)'}">${x.d>=6?x.d:''}</div><div class="cbar" style="height:${uh}%;background:${x.u?'#b91c1c':'var(--line)'}">${x.u>=10?x.u:''}</div>`;
     c.appendChild(col);
     const l=document.createElement('div'); l.textContent=x.h.replace('时','');
-    if(i===2){l.style.color='var(--ok)';l.style.fontWeight='700';}
+    if(i===2||i===3){l.style.color='var(--ok)';l.style.fontWeight='700';}
     a.appendChild(l);
   });
 }
@@ -1195,7 +1205,7 @@ function drawRisks(){
   });
 }
 
-const KEY='izu_wx_chk_v4';
+const KEY='izu_wx_chk_v5';
 function drawTodos(){
   let st={}; try{st=JSON.parse(localStorage.getItem(KEY)||'{}');}catch{}
   const w=document.getElementById('chk-wrap'); w.innerHTML='';
@@ -1218,7 +1228,7 @@ document.querySelectorAll('.pbtn').forEach(b=>b.addEventListener('click',()=>{
   document.querySelectorAll('.pbtn').forEach(x=>x.classList.remove('on'));
   b.classList.add('on');
   const p=b.dataset.preset;
-  document.getElementById('dep-slider').value = 450;
+  document.getElementById('dep-slider').value = 540;
   if(p==='planS'){document.getElementById('route-mode').value='skyline';document.getElementById('opt-first').checked=true;}
   if(p==='planC'){document.getElementById('route-mode').value='direct';document.getElementById('opt-first').checked=true;}
   if(p==='planA'){document.getElementById('route-mode').value='numazu';document.getElementById('opt-first').checked=false;}
@@ -1239,7 +1249,7 @@ document.getElementById('lb-close').addEventListener('click',()=>lb.classList.re
 lb.addEventListener('click',e=>{if(e.target===lb) lb.classList.remove('show');});
 
 document.getElementById('copy-wx-btn').addEventListener('click',()=>{
-  const txt = `【11/23 周一・伊豆自驾最新攻略＆一键导航（已锁定池袋酒店！）】\n明天伊豆全天大晴天（15℃/5℃，日落16:36），24日午后可能转雨，所以我们明天直接冲富士山绝景线！页面含防选错一键Google Maps导航＋3家晚餐9张实拍👇\nhttps://kenandxx.github.io/trip-planning/\n\n🚗 最新时间安排（滝不動最早 07:30 出发）：\n・08:35 抵达 Hotel Starplaza Ikebukuro（池袋2-10-2・西口C6）接2位朋友！请 08:25 提前下楼到酒店旁「劇場通り」大路边快装（超5分拐去337m外东京艺术剧场地下停车）\n・08:52 从仅5分钟外的【西池袋入口】直上C2山手隧道→东名（比原新宿快15分钟！）\n・09:51 EXPASA海老名(下り)吃名物休整30分（哈密瓜面包・炸竹荚鱼・えびえび焼き）\n・11:26 走【伊豆スカイライン】看富士山＋相模/骏河双海！（完美避开东名大井松田施工，跳过沼津港排队2小时）\n・13:51 先趁天亮逛修善寺温泉街＆修禅寺庭园（16:00闭园）\n・15:26 入住弘法の湯长冈店泡温泉＆岩盘浴\n\n🍽 今晚请大家投票选 1 家晚餐（点网页看9张图＆评价）：\n① ひょうたん寿司（步行9分・老字号地鱼寿司・司机可小酌・LO 19:30）\n② さわやか 函南店（静冈限定碳烤拳头汉堡排・车程12分・LO 21:00 可手机取号）\n③ あまご茶屋 修善寺温泉店（4.5★红姬鳟鱼＆现磨山葵・17:00逛完直接吃・LO 18:30）\n\n麻烦报一下雪杖长度＆箱子尺寸，明早 08:25 池袋酒店楼下见！`;
+  const txt = `【11/23 周一・伊豆自驾最新攻略＆一键导航（09:00 池袋酒店接人版）】\n明天伊豆全天大晴天（15℃/5℃，日落16:36），24日午后可能转雨，所以我们明天直接冲富士山绝景线！页面含防选错一键Google Maps导航＋3家晚餐9张实拍👇\nhttps://kenandxx.github.io/trip-planning/\n\n🚗 最新时间安排（按 09:00 抵达酒店设计，全员多睡 25 分钟！）：\n・07:55 千叶滝不動出发（留余量可07:45）\n・09:00 抵达 Hotel Starplaza Ikebukuro（池袋2-10-2・西口C6）接2位朋友！请 08:50 提前退房下楼到酒店旁「劇場通り」大路边快装（超5分拐去337m外东京艺术剧场地下停车）\n・09:10 出发直导海老名SA（约6分无缝进西池袋C2山手隧道→大桥JCT蓝道→东名）\n・10:18 EXPASA海老名(下り)吃名物休整30分（哈密瓜面包・炸竹荚鱼・えびえび焼き）\n・11:53 走【伊豆スカイライン】拍正午晴天富士山＋相模/骏河双海！（避开大井松田施工，跳过沼津港排队2小时）\n・13:13 一次停好修善寺「月の庭駐車場」吃午饭，14:08 零挪车逛修善寺＆修禅寺庭园（16:00闭园，距日落还有2.5小时！）\n・15:43 丝滑入住弘法の湯长冈店（避开15:00高峰）泡温泉＆岩盘浴\n\n🍽 今晚请大家投票选 1 家晚餐（点网页看9张图＆评价）：\n① ひょうたん寿司（步行9分・老字号地鱼寿司・司机可小酌・LO 19:30）\n② さわやか 函南店（静冈限定碳烤拳头汉堡排・车程12分・LO 21:00 泡汤时手机取号）\n③ あまご茶屋 修善寺温泉店（4.5★红姬鳟鱼＆现磨山葵・17:00逛完直接吃・LO 18:30）\n\n麻烦报一下雪杖长度＆箱子尺寸，明早 08:50 池袋酒店楼下见！`;
   if(navigator.clipboard){navigator.clipboard.writeText(txt).catch(()=>{});}
   const t=document.getElementById('toast'); t.classList.add('show');
   setTimeout(()=>t.classList.remove('show'),2400);
